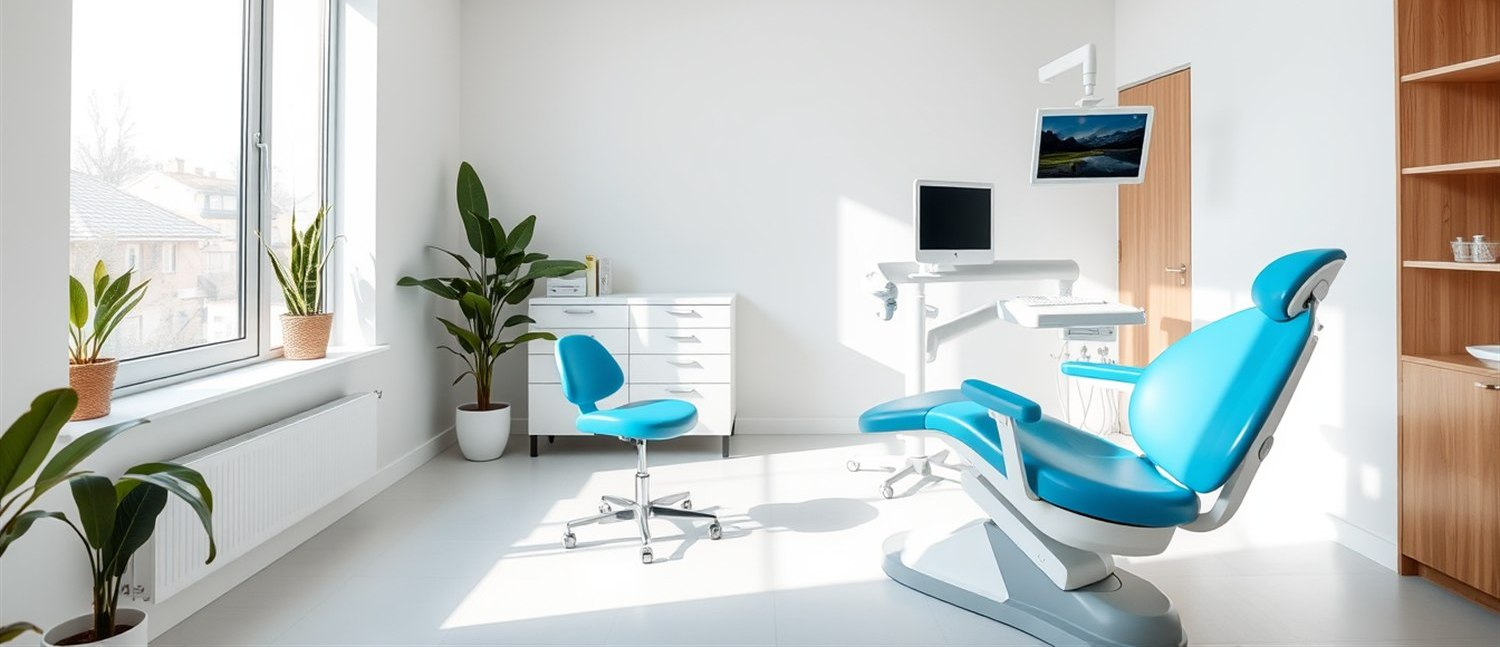
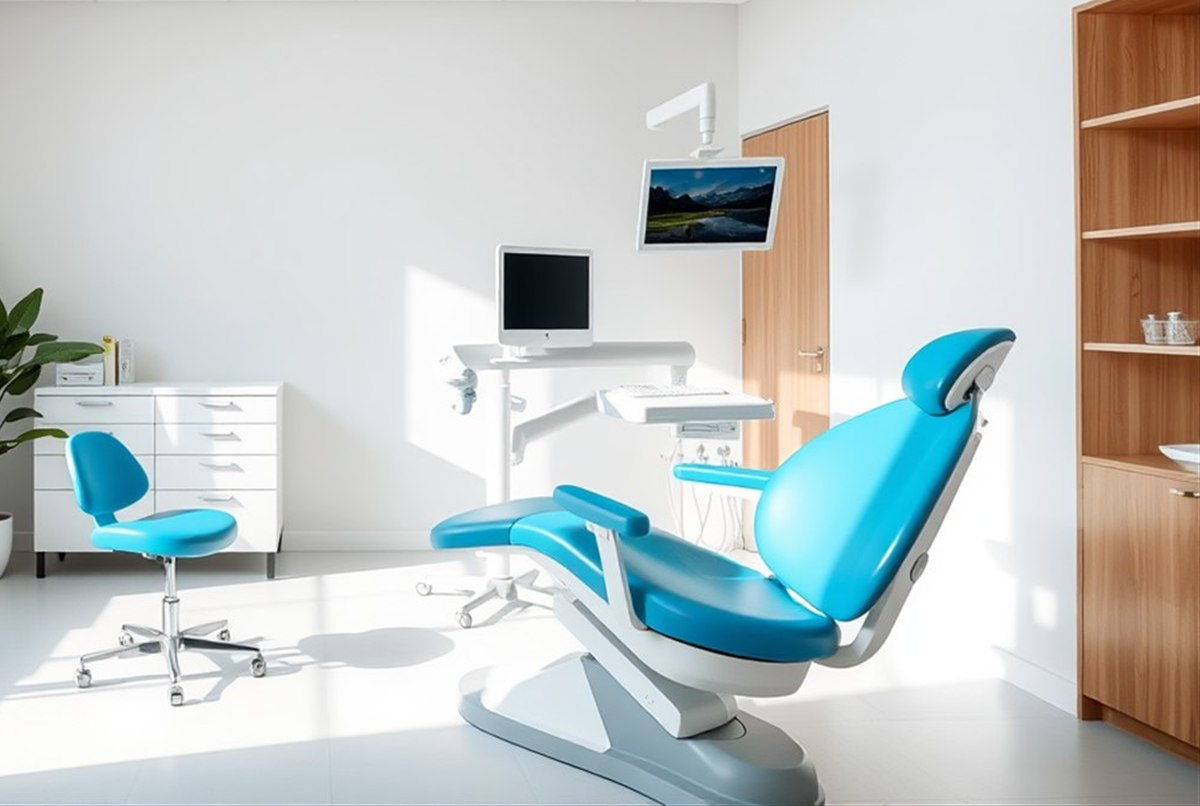
Blue scrubs after the hero; stop the phone layout shouting
Two things, both reported from the phone.

The blue scrubs photograph now sits in the section directly after the hero,
where it was asked for. The grey suit moves to the About page portrait, so no
page still shows the same outfit twice.

The congestion was measurable rather than a matter of taste. Counting only
visible call and WhatsApp links on the home page at 390px there were fifteen,
six of them inside the first screen and a half:

  518  hero      Call the chamber
  588  hero      WhatsApp us
  711  header    call icon
  786  pillars   Call 01915109006
  fixed          Call now + WhatsApp

The fixed bar is on screen at all times, so everything above it repeats an
action the visitor can already take. Removed the hero's pair, the pillars
button, and the WhatsApp pill from the closing band. Fifteen down to eleven,
six in the first screen down to three, and those three are the header icon and
the one bar.

The hero itself was also wrong on a phone. The band renders the file's full
height and crops width, so the visible strip above the card was ceiling tiles
and wall monitors — nothing that says dental clinic. The image is recropped
near-square and centred on the chair, 185px of ceiling removed, and the band
tightened from 140vw to 118vw.

That change exposed a collision: the yellow band tucks 30px up behind the card,
and the compensating padding left the first heading against the card's shadow.
[…]

diff --git a/src/sections/Hero.css b/src/sections/Hero.css
@@ -13,10 +13,10 @@
   /* Taller than it is wide, which is what makes object-fit zoom in on Dr.
      Arman rather than letterbox him. Capped so a tablet does not get a wall of
      photograph. */
-  --hero-band: min(140vw, 560px);
+  --hero-band: min(118vw, 470px);
   /* How far the card climbs back over the band — a fraction of it, so the
      strip of photo that stays visible keeps its proportion at every width. */
-  --hero-lift: calc(var(--hero-band) * 0.63);
+  --hero-lift: calc(var(--hero-band) * 0.58);
   --hero-curve: var(--r-curve);
 
   position: relative;
@@ -40,10 +40,9 @@
   inset: 0;
   width: 100%;
   height: 100%;
-  /* A room rather than a person. On a phone the band is taller than the image
-     so the full height shows and only the horizontal window moves — biased
-     right, where the chair is. */
-  object-position: 68% 50%;
+  /* A room rather than a person. The frame is near-square so a phone shows its
+     full height and the chair is not lost behind the card. */
+  object-position: 50% 50%;
 }
 
 /* Grounds the card against the photo rather than letting it float on a bright
@@ -106,8 +105,12 @@
 .hero__circle .eyebrow::before { width: 11px; height: 11px; }
 
 /* ── Call / WhatsApp — phones only ─────────────────────────────────────────── */
+/* The fixed call bar carries Call and WhatsApp on every screen of every page,
+   and from 992px the header carries "Book Appointment". A pair of pills here
+   too meant six of the same two actions inside the first screen and a half,
+   which is what made the phone layout feel like it was shouting. */
 .hero__actions {
-  display: grid;
+  display: none;
   gap: 10px;
   margin-top: 6px;
 }
@@ -165,7 +168,9 @@
     min-height: clamp(520px, 62vw, 760px);
   }
 
-  .hero__media .hero__photo { object-position: 50% 55%; }
+  /* Wide band, near-square source: width fills and the vertical window
+     moves. Biased down onto the chair rather than the ceiling. */
+  .hero__media .hero__photo { object-position: 50% 68%; }
 
   /* Weight on the left, under the card, so the white circle stays readable and
      the chair on the right of the photograph stays bright. */
@@ -227,9 +232,7 @@
     font-size: clamp(0.75rem, calc(var(--hero-circle) * 0.026), 0.8125rem);
   }
 
-  /* The header carries "Book Appointment" at this size, and the circle has no
-     room for a pair of pills without losing its proportions. */
-  .hero__actions { display: none; }
+
 
   /* ── Navy circle button straddling the circle's lower-right edge ─────────── */
   .hero__badge {

diff --git a/src/sections/Pillars.css b/src/sections/Pillars.css
@@ -21,10 +21,20 @@
 }
 
 /* Colour, radius, clipping and stacking come from the .band primitive; only the
-   tuck and the padding that compensates for it are local. */
+   tuck and the padding that compensates for it are local.
+   --clear is breathing room under the hero card. The band tucks 30px up behind
+   the card's lower edge, and the compensating padding alone left the first
+   heading sitting right against the card's shadow. Measured: this puts ~48px
+   between them. */
 .pillars__band {
+  --clear: 28px;
   margin-top: calc(var(--tuck) * -1);
-  padding-block: calc(var(--band-pad) + var(--tuck)) var(--band-pad);
+  padding-block: calc(var(--band-pad) + var(--tuck) + var(--clear)) var(--band-pad);
+}
+
+@media (min-width: 900px) {
+  /* The card is a circle overlaid on the band up here, not in the flow. */
+  .pillars__band { --clear: 0px; }
 }
 
 .pillars__inner {
@@ -140,4 +150,13 @@
   .pillars__item-title { align-self: auto; }
 
   .pillars__item-text { line-height: var(--lh-body); }
+}
+
+/* ── Phones ─────────────────────────────────────────────────────────────────
+   The band sits ~800px down, with the fixed call bar pinned to the bottom of
+   the same screen. A third call button here was the fourth of the same action
+   in the first screen and a half. The promises are the point of this block;
+   the calling is handled. */
+@media (max-width: 767px) {
+  .pillars__intro .btn { display: none; }
 }

diff --git a/src/sections/CtaBand.css b/src/sections/CtaBand.css
@@ -141,3 +141,10 @@
 }
 
 .cta-band__phone:hover { text-decoration-color: var(--navy); }
+
+/* ── Phones ─────────────────────────────────────────────────────────────────
+   Keep the primary action and the number; drop the WhatsApp pill, which the
+   fixed bar already carries two thumb-widths below it. */
+@media (max-width: 767px) {
+  .cta-band__actions .btn--white { display: none; }
+}

diff --git a/src/config/site.js b/src/config/site.js
@@ -88,7 +88,7 @@ export const hours = {
 
 /* ── Hero ──────────────────────────────────────────────────────────────────── */
 export const hero = {
-  eyebrow: 'Trusted dental care in Shyamoli',
+  eyebrow: 'Trusted care in Shyamoli',
   // Words listed in `highlight` render in the accent colour inside the headline.
   headline: 'Your smile is our priority',
   highlight: ['smile'],

diff --git a/src/sections/Hero.jsx b/src/sections/Hero.jsx
@@ -20,7 +20,7 @@ export default function Hero() {
         <Photo
           src="hero-clinic.jpg"
           alt=""
-          ratio="1500/647"
+          ratio="1200/806"
           shape="flat"
           priority
           className="hero__photo"
